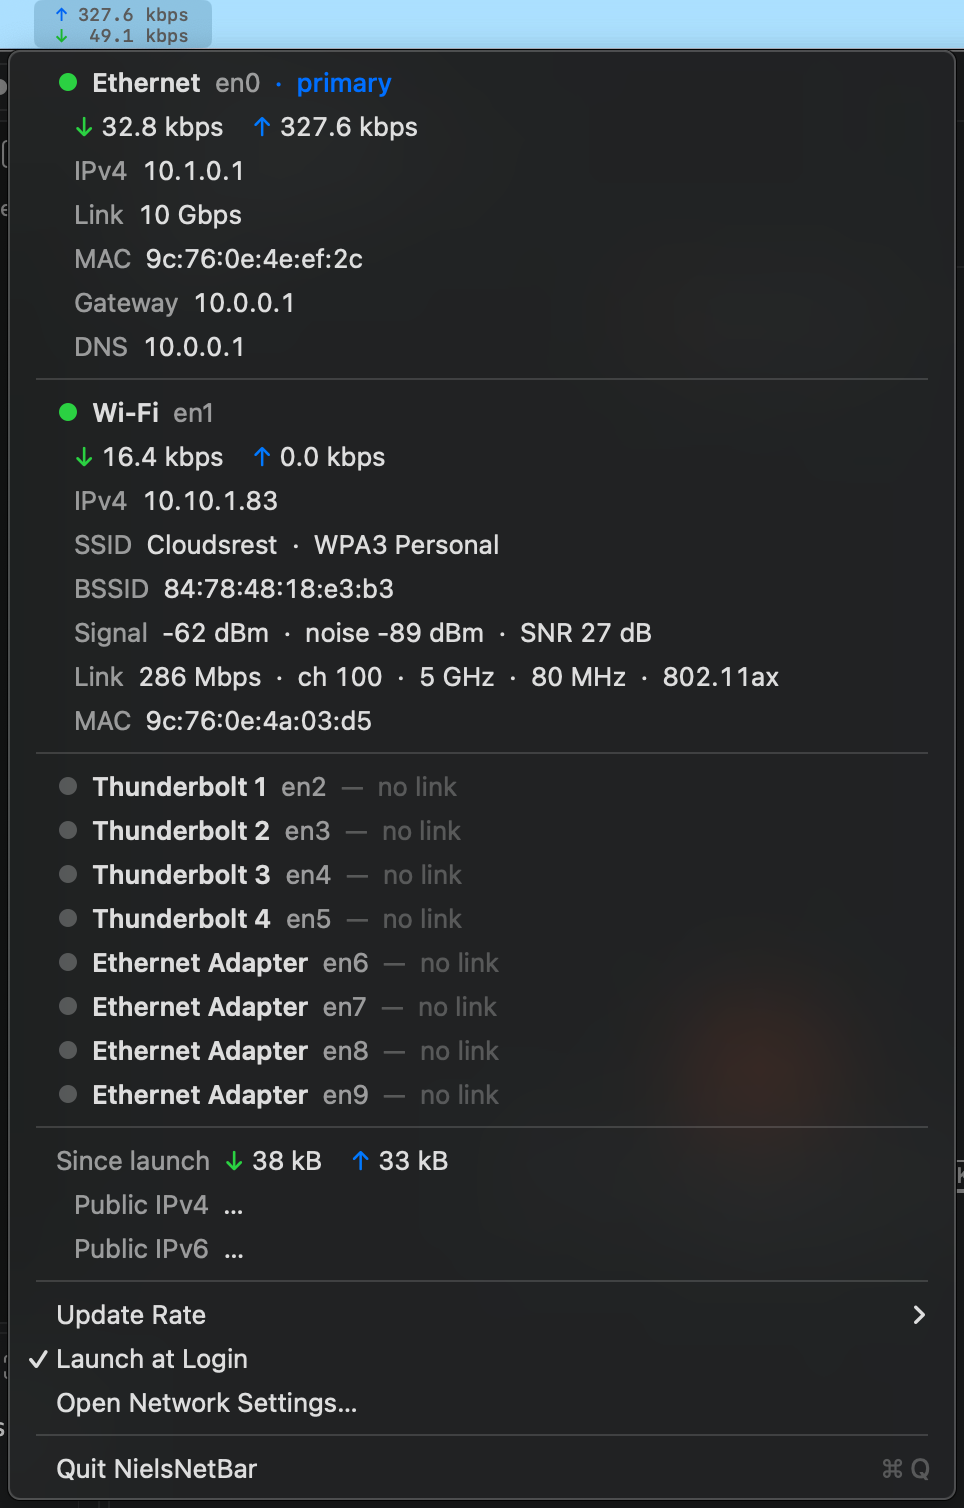
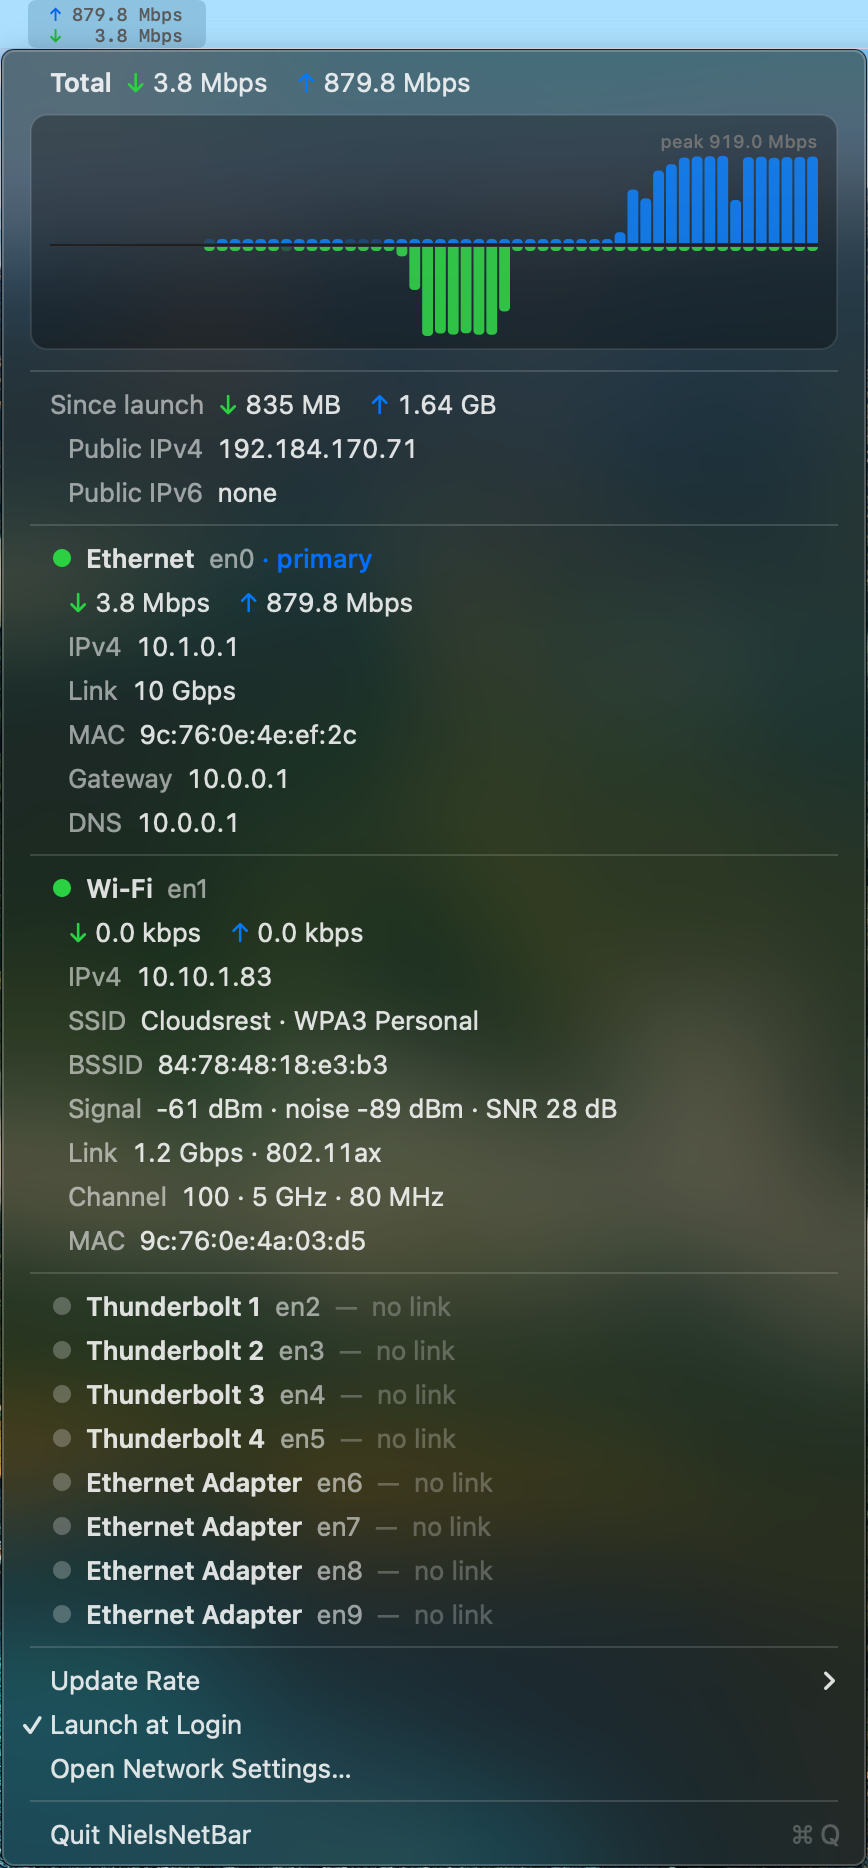
niels-net-bar: refresh README screenshot (chart, reordered menu)

diff --git a/README.md b/README.md
@@ -11,7 +11,7 @@
 </p>
 
 <p align="center">
-  <img src="docs/screenshot.png" alt="NielsNetBar: stacked upload/download rates in the menu bar, and the dropdown listing each interface with a status dot, rates, addresses, link speed, Wi-Fi details, gateway and DNS" width="520">
+  <img src="docs/screenshot.png" alt="NielsNetBar: stacked upload/download rates in the menu bar, and the dropdown listing each interface with a status dot, rates, addresses, link speed, Wi-Fi details, gateway and DNS" width="434">
 </p>
 
 ```
